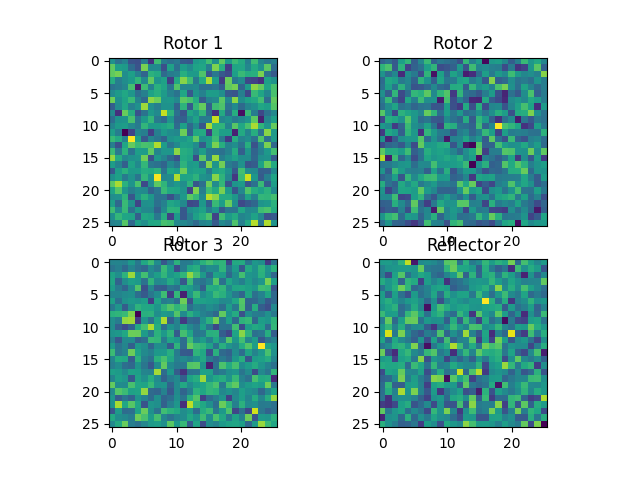
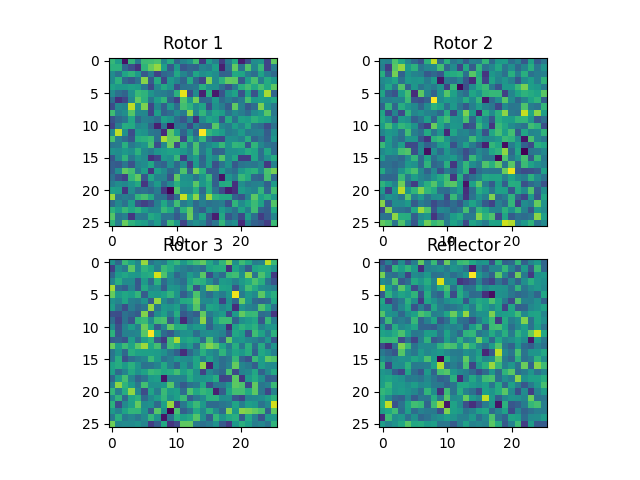
fix bug in datamodule

diff --git a/DataModule.py b/DataModule.py
@@ -46,7 +46,6 @@ class EnigmaDataset(torch.utils.data.IterableDataset):
         # make these into 2d arrays with one_hot encoding
         self.rotors=rotors
         self.reflector=reflector
-        self.rotor_positions=[0,0,0]
         rotateMatrix=torch.arange(26)+1 #This is the matrix that will be used to rotate the rotors.
         rotateMatrix[-1]=0
         self.rotateMatrix=torch.nn.functional.one_hot(rotateMatrix,26)
@@ -60,22 +59,23 @@ class EnigmaDataset(torch.utils.data.IterableDataset):
 
         GROUND_TRUTH= torch.randint(0,26,(150,),dtype=torch.long)
         encoded=GROUND_TRUTH.clone()
+        rotor_positions=[0,0,0]
         for i in range(150):
             #Rotate the rotors
-            self.rotor_positions[0]=(self.rotor_positions[0]+1)%26
-            if self.rotor_positions[0]==0:
-                self.rotor_positions[1]=(self.rotor_positions[1]+1)%26
-                if self.rotor_positions[1]==0:
-                    self.rotor_positions[2]=(self.rotor_positions[2]+1)%26
+            rotor_positions[0]=(rotor_positions[0]+1)%26
+            if rotor_positions[0]==0:
+                rotor_positions[1]=(rotor_positions[1]+1)%26
+                if rotor_positions[1]==0:
+                    rotor_positions[2]=(rotor_positions[2]+1)%26
             #Encode the letter
-            letterAfterFirstRotor= self.rotors[0][(self.rotor_positions[0]+encoded[i])%26]
-            letterAfterSecondRotor= self.rotors[1][(self.rotor_positions[1] + letterAfterFirstRotor)%26]
-            letterAfterThirdRotor= self.rotors[2][(self.rotor_positions[2] + letterAfterSecondRotor)%26]
+            letterAfterFirstRotor= self.rotors[0][(rotor_positions[0]+encoded[i])%26]
+            letterAfterSecondRotor= self.rotors[1][(rotor_positions[1] + letterAfterFirstRotor)%26]
+            letterAfterThirdRotor= self.rotors[2][(rotor_positions[2] + letterAfterSecondRotor)%26]
             reflectedLetter=self.reflector[letterAfterThirdRotor]
             #Now we have to go back through the rotors
-            letterReturningThroughThirdRotor=self.rotors[2][(self.rotor_positions[2]+reflectedLetter)%26]
-            letterReturningThroughSecondRotor=self.rotors[1][(self.rotor_positions[1]+letterReturningThroughThirdRotor)%26]
-            letterReturningThroughFirstRotor=self.rotors[0][(self.rotor_positions[0]+letterReturningThroughSecondRotor)%26]
+            letterReturningThroughThirdRotor=self.rotors[2][(rotor_positions[2]+reflectedLetter)%26]
+            letterReturningThroughSecondRotor=self.rotors[1][(rotor_positions[1]+letterReturningThroughThirdRotor)%26]
+            letterReturningThroughFirstRotor=self.rotors[0][(rotor_positions[0]+letterReturningThroughSecondRotor)%26]
             #This is the encoded letter
             encoded[i]=letterReturningThroughFirstRotor
 

diff --git a/train.py b/train.py
@@ -11,7 +11,7 @@ from scipy.optimize import linear_sum_assignment as LSA
 #The rotor class will have a forward and reverse function.
 
 #HACKER TASK: Have a look at how this repo is training assignment matrices - and copy into the rotor class!  https://github.com/HeddaCohenIndelman/Learning-Gumbel-Sinkhorn-Permutations-w-Pytorch/blob/master/my_sorting_train.py 
-
+#             A better walkthrough of the ideas are here : https://uvadlc-notebooks.readthedocs.io/en/latest/tutorial_notebooks/DL2/sampling/permutations.html
 class Rotor(nn.Module):
     def __init__(self,position=1):
         super().__init__()
@@ -106,6 +106,7 @@ class Enigma(LightningModule):
         self.R2=Rotor(2)
         self.R3=Rotor(3)
         self.REF=Rotor(0)
+        self.softmax=nn.Softmax(dim=2)
         if activation=="gelu":
             self.activation=nn.GELU()
         elif activation=="relu":
@@ -133,11 +134,11 @@ class Enigma(LightningModule):
     def forward(self,x):
         # Test: Do we want an activation function here?
         x=self.R1(x)
-
+        x=self.activation(x)
         x=self.R2(x)
 
         x=self.R3(x)
-
+        x=self.activation(x)
         x=self.REF(x)
 
         x=self.R1.reverse(x)
@@ -147,7 +148,7 @@ class Enigma(LightningModule):
         x=self.R3.reverse(x)
 
         #Test: Do we want to do something like a softmax to force the gradient to a letter?
-        x=torch.nn.functional.gumbel_softmax(x,dim=2,hard=True)
+        x=self.softmax(x)
         return x
     
     def training_step(self,batch,batch_idx):
@@ -155,6 +156,7 @@ class Enigma(LightningModule):
 
         GT=torch.nn.functional.one_hot(GT,26).permute(0,2,1).to(dtype=torch.float)
         encoded=torch.nn.functional.one_hot(encoded,26).to(dtype=torch.float)
+        
         #TEST: Does adding noise help? 
         encoded = encoded 
         decoded=self.forward(encoded)
